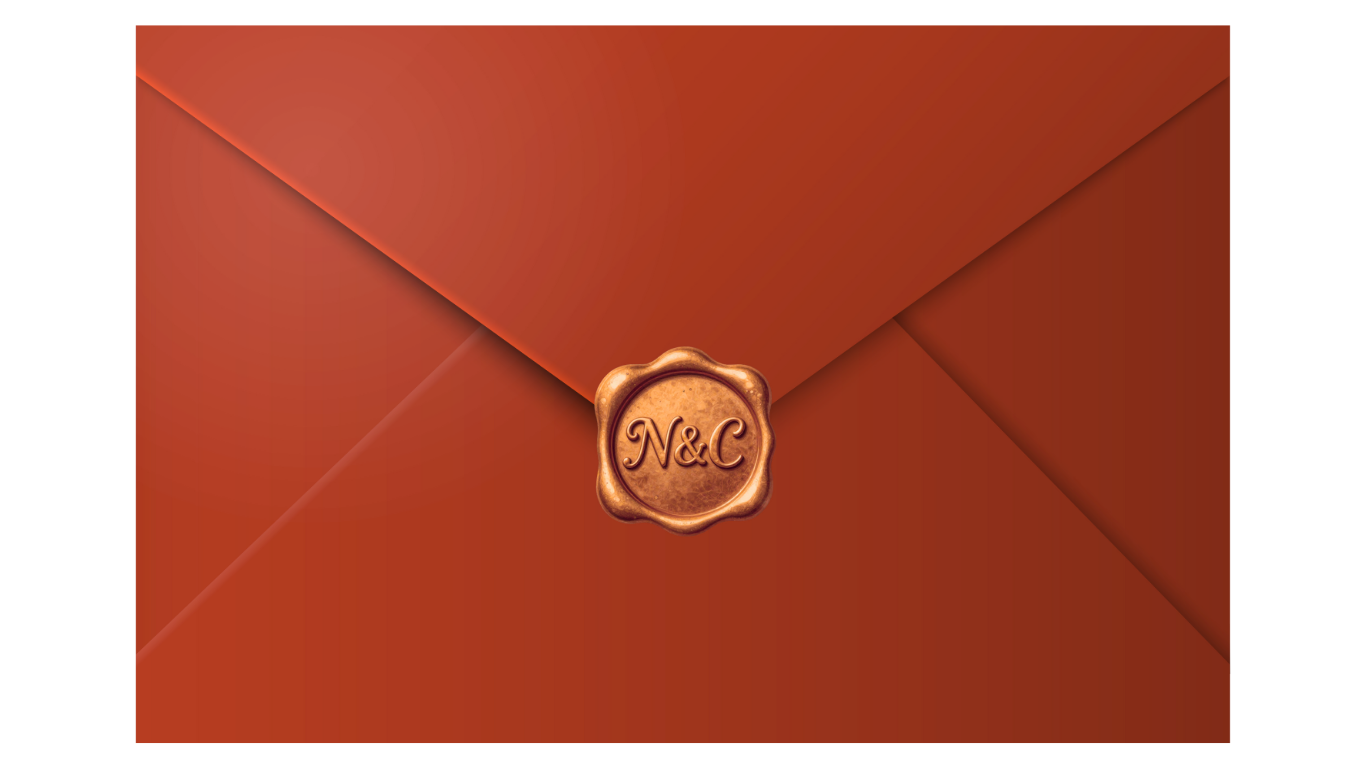
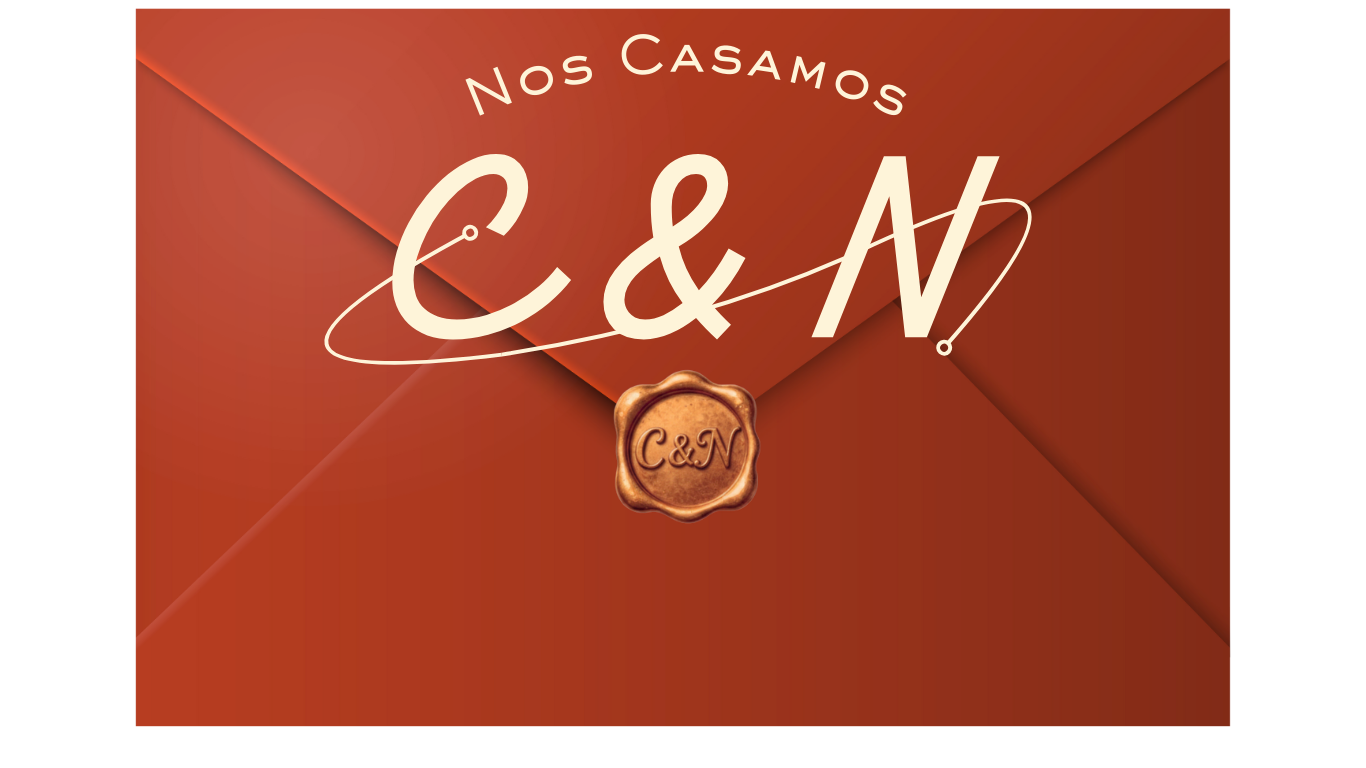
Se enlaza sobre como raíz '/' y se modifica visualmente

diff --git a/client/src/pages/Sobre.tsx b/client/src/pages/Sobre.tsx
@@ -1,4 +1,5 @@
 import { FloralSectionTop } from '@/components/FloralSectionTop';
+import { Enredadera } from '@/components/flowers/Enredadera';
 import { RamoFlores } from '@/components/flowers/RamosFlores'; // Asumo la ruta
 import React from 'react';
 import { useLocation } from "wouter";
@@ -7,10 +8,12 @@ export default function Sobre() {
     const [, setLocation] = useLocation();
 
     const abrirInvitacion = () => {
-        setLocation("/"); 
+        setLocation("/invitacion"); 
     };
 
     return (
+
+
         // CONTENEDOR PRINCIPAL
         // Añadimos 'overflow-hidden' para que si las flores son muy grandes no generen scroll
         <div className="min-h-screen bg-background overflow-hidden relative w-full h-full">
@@ -45,11 +48,16 @@ export default function Sobre() {
                     <h1 className="text-4xl md:text-6xl font-script text-foreground drop-shadow-sm">
                         Invitación Especial
                     </h1>
+
+                    <h1 className="text-2xl md:text-4xl font-script text-foreground drop-shadow-sm">
+                        Carla Pizarro & Nicolás Lagos
+                    </h1>
+                    
                 </div>
 
                 {/* 2. EL SOBRE */}
                 <div 
-                    className="relative w-full max-w-[500px] flex justify-center cursor-pointer group my-4" 
+                    className="relative w-full max-w-[500px] flex justify-center cursor-pointer group" 
                     onClick={abrirInvitacion}
                 >
                     <img
@@ -69,9 +77,6 @@ export default function Sobre() {
                 {/* 3. TEXTO INFERIOR */}
                 {/* Quité el 'mb-8' que tenías, porque empujaba todo hacia arriba innecesariamente */}
                 <div className="mt-6 text-center space-y-2 animate-in fade-in slide-in-from-bottom-8 duration-1000 delay-200 fill-mode-forwards">
-                    <h1 className="text-3xl md:text-5xl font-script text-foreground drop-shadow-sm px-4">
-                        Veintinueve de Mayo del Dos Mil Veintiseis
-                    </h1>
                     <p className="text-sm md:text-base text-muted-foreground/80 pt-2 animate-pulse">
                         (Toca el sobre para abrir)
                     </p>
@@ -79,5 +84,6 @@ export default function Sobre() {
 
             </div>
         </div>
+       
     );
 }

diff --git a/client/src/components/flowers/Enredadera.tsx b/client/src/components/flowers/Enredadera.tsx
@@ -1,0 +1,69 @@
+import { cn } from "@/lib/utils";
+import { ReactNode } from "react";
+
+interface FloralSectionProps {
+  children: ReactNode;
+  className?: string;
+  withDivider?: boolean;
+}
+
+export function Enredadera({ children, className, withDivider = false }: FloralSectionProps) {
+  return (
+    <section className={cn(
+// 1. ESTRUCTURA:
+      // min-h-[85dvh]: Ocupa el 85% de la pantalla del celular SIEMPRE.
+      // Esto empuja la playlist hacia abajo inmediatamente.
+"relative pt-32 md:pt-40 pb-10 overflow-hidden flex flex-col justify-center min-h-[92dvh]",    )}>
+
+
+  <img
+  src="/images/enredadera.png"
+  alt="Decoración floral superior"
+  className="
+    /* ==============================================
+       📱 1. MÓVIL (TU VERSIÓN SAGRADA)
+       ============================================== */
+    absolute z-20
+    top-[-3px] 
+    left-1/2 -translate-x-1/2
+    w-[395px] max-w-none
+
+    /* ==============================================
+       💻 2. NOTEBOOK / PC (LA 'ESTRATEGIA CELULAR')
+       ============================================== */
+    /* 1. Lo volvemos 'absolute' para que NO empuje el contenido (igual que en móvil) */
+    md:absolute
+    
+    /* 2. Lo pegamos al techo, ajustando un poco para que respire */
+    md:top-[-20px] 
+    md:left-1/2 md:-translate-x-1/2
+    
+    /* 3. DIMENSIONES CONTROLADAS (Art Direction) */
+    /* En vez de w-full (que estira infinito), le damos un ancho 'lógico' para notebook */
+    md:w-full 
+    md:max-w-[1200px]   /* Tope máximo para que no se vea gigante en pantallas anchas */
+    md:h-[500px]        /* Altura fija para encuadrar bien las flores */
+    md:object-cover     /* Recorte inteligente si sobra espacio */
+
+    /* 4. Limpieza: Eliminamos márgenes negativos y escalas raras */
+    md:m-0 
+    md:scale-100
+
+    /* ==============================================
+       ✨ ANIMACIONES Y PROPIEDADES COMUNES
+       ============================================== */
+    opacity-100 pointer-events-none select-none
+    animate-in 
+    slide-in-from-top-10
+    fade-in
+    duration-[3000ms]
+    ease-out
+  "
+  loading="eager"
+  fetchPriority="high"
+/>
+    </section>
+  );
+
+
+}

diff --git a/client/src/index.css b/client/src/index.css
@@ -42,6 +42,7 @@
   --color-sidebar-accent-foreground: var(--sidebar-accent-foreground);
   --color-sidebar-border: var(--sidebar-border);
   --color-sidebar-ring: var(--sidebar-ring);
+  --color-foreground2: var(--foreground2);
 }
 
 :root {
@@ -51,7 +52,9 @@
   --background: #bd553b; /* Terracota */
   
   /* Color de texto principal (primer plano). */
-  --foreground: oklch(90.157% 0.10104 87.535); /* Blanco Hueso */
+  --foreground: #FEF4D9; /* Blanco Hueso */
+
+  --foreground2:  #89a88e; /* Verde Salvia Suave */
 
   /* Color primario: para títulos, botones y elementos importantes. */
   --primary: oklch(0.85 0.15 85); /* Dorado Cálido */
@@ -105,7 +108,7 @@
 
   /* Colores específicos para la barra lateral (si la hubiera). */
   --sidebar: oklch(0.98 0.01 90);
-  --sidebar-foreground: oklch(0.35 0.02 80);
+  --sidebar-foreground: lab(25.34% -0.82 8.68);
   --sidebar-primary: oklch(0.85 0.18 85);
   --sidebar-primary-foreground: oklch(0.85 0.15 85);
   --sidebar-accent: oklch(0.88 0.08 300);

diff --git a/client/src/App.tsx b/client/src/App.tsx
@@ -11,8 +11,8 @@ import Sobre from "./pages/Sobre";
 function Router() {
   return (
     <Switch>
-      <Route path={"/"} component={Home} />
-      <Route path={"/sobre"} component={Sobre} />
+      <Route path={"/"} component={Sobre} />
+      <Route path={"/invitacion"} component={Home} />
       {/* Fallback route */}
       <Route path={"/404"} component={NotFound} />
       {/* Final fallback route */}
